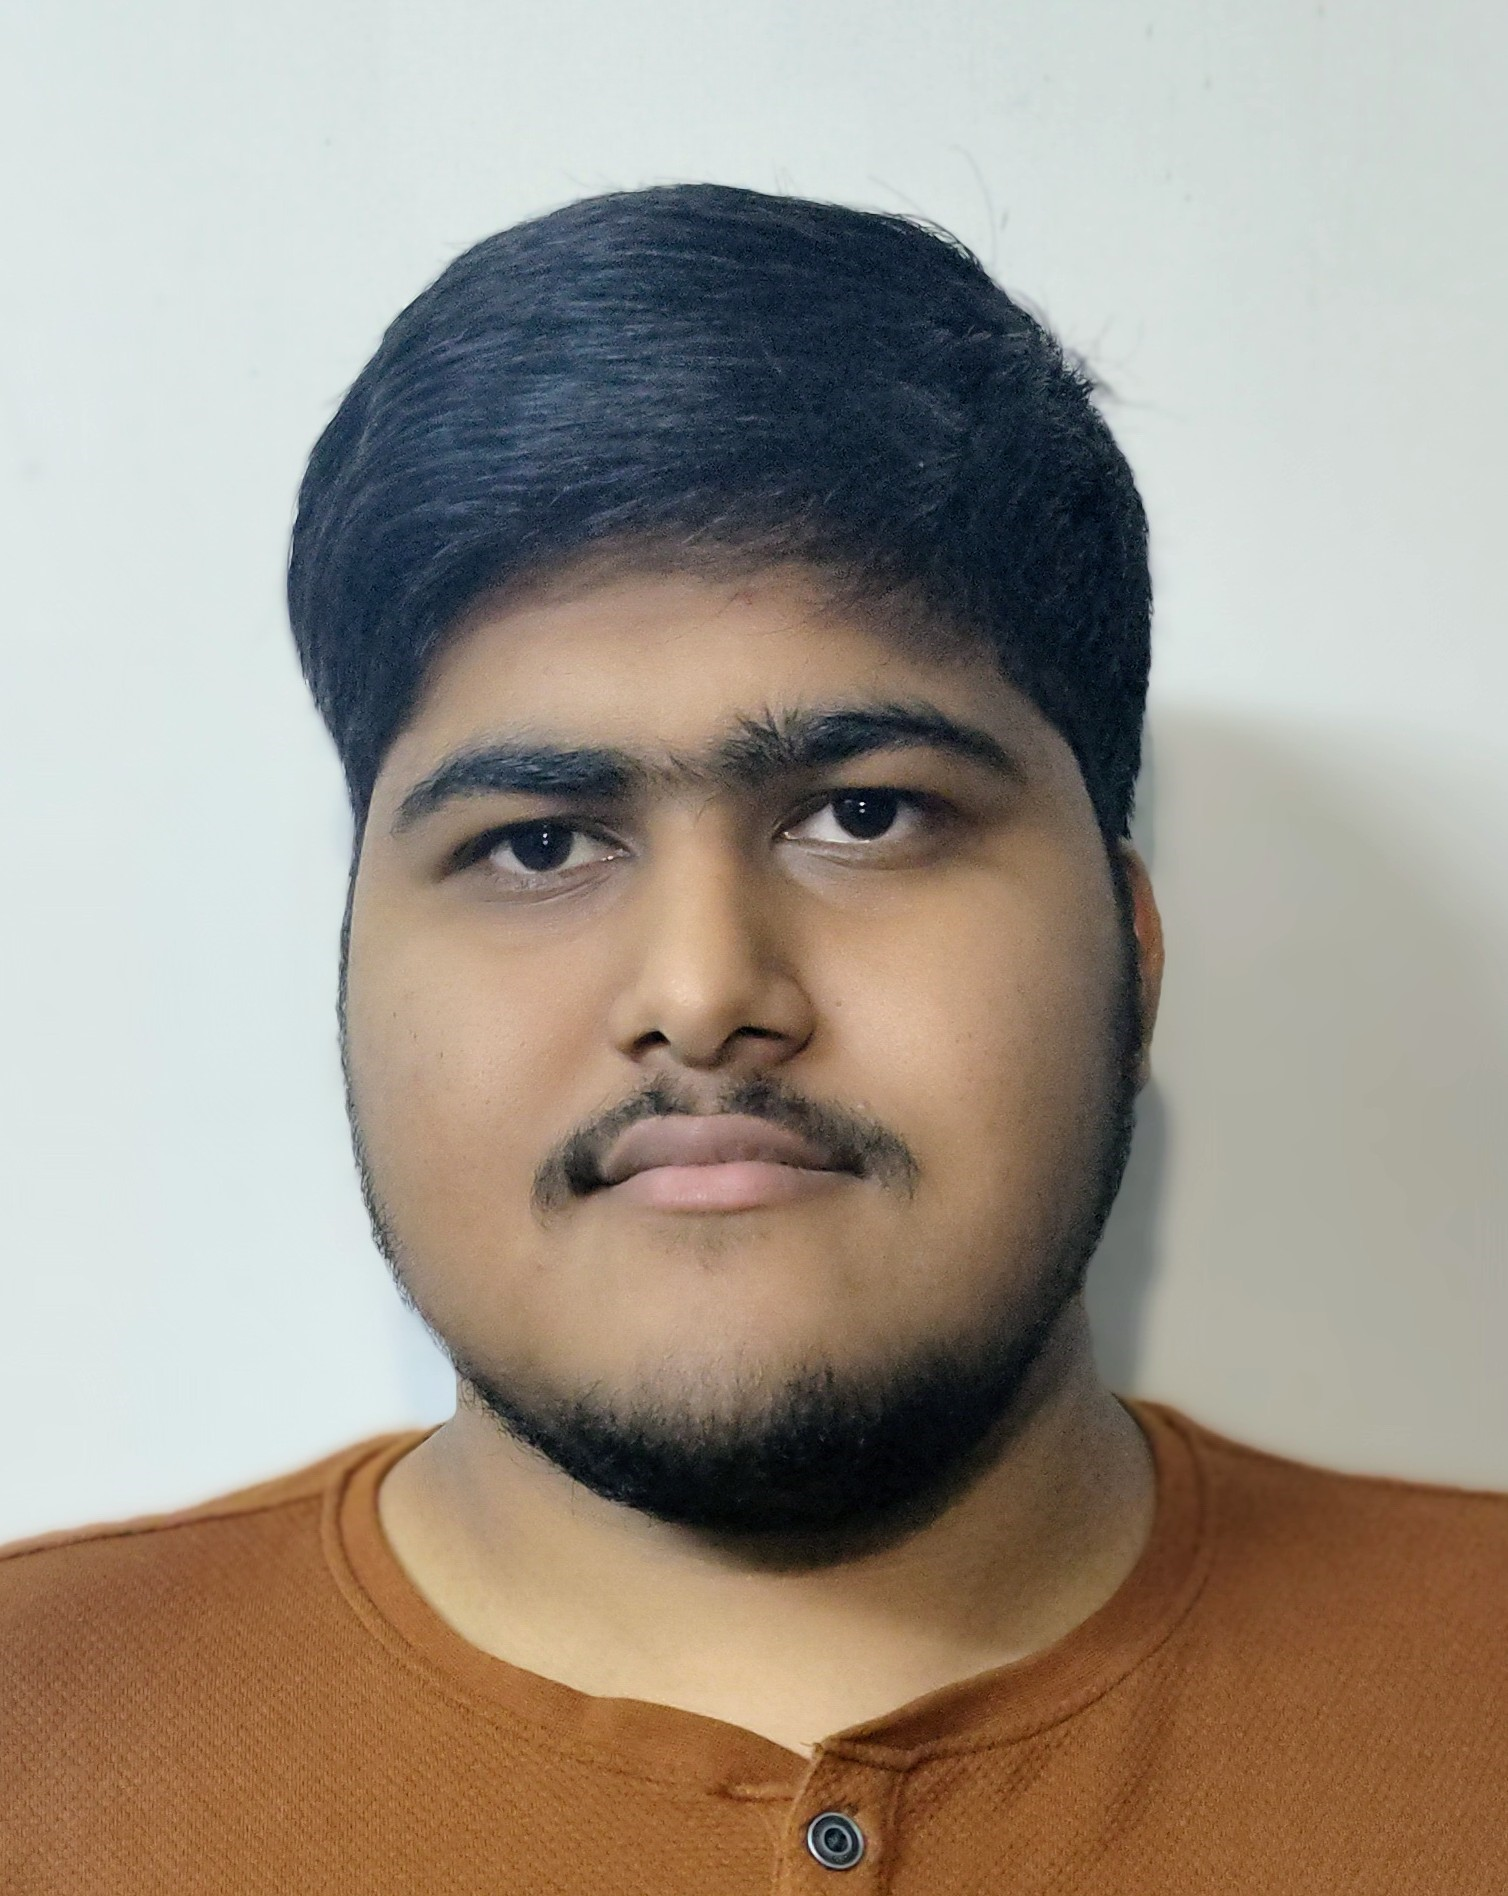
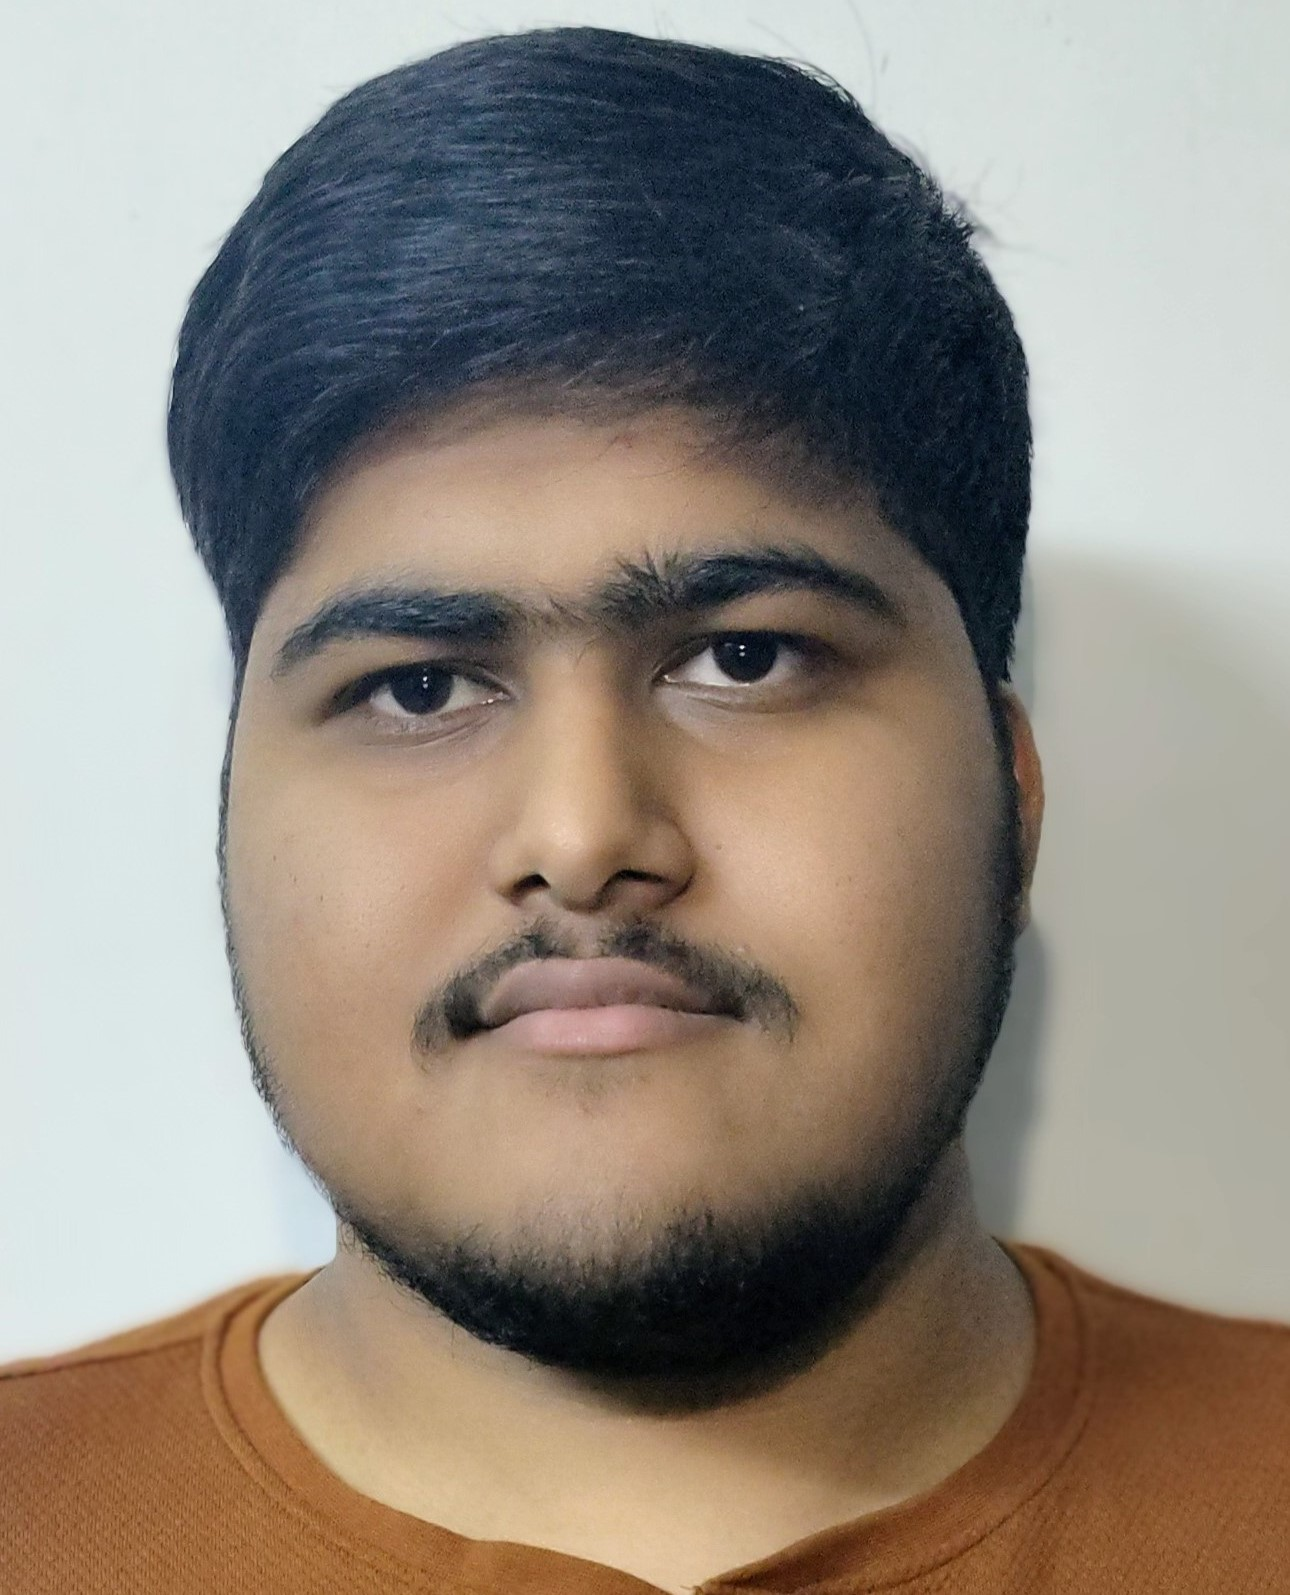
small change

diff --git a/components/AboutMe.jsx b/components/AboutMe.jsx
@@ -9,13 +9,13 @@ export default function AboutMe() {
           <div id="cards" className="rounded-3xl md:-mx-5">
             <div className="card rounded-3xl h-80 xl:h-96">
               <Image
-                className="card-front-image h-full w-full  card-image rounded-3xl border border-black dark:border-white "
+                className="card-front-image h-full  w-full  card-image rounded-3xl border border-black dark:border-white aspect-[.80]  "
                 alt="profile Image"
                 priority={true}
-                width={250}
-                height={320}
+                width={800}
+                height={1000}
                 src={profileimage}
-                quality={100}
+                quality={20}
                 placeholder='blur'
[1 lines of base64/hex data omitted]
               />
